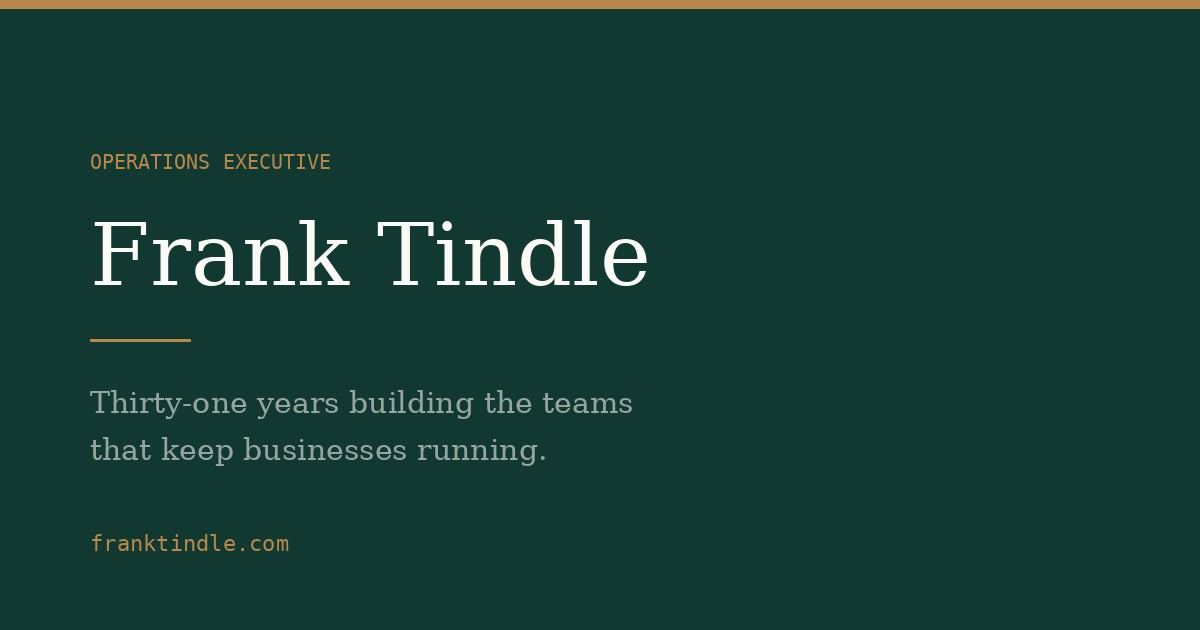
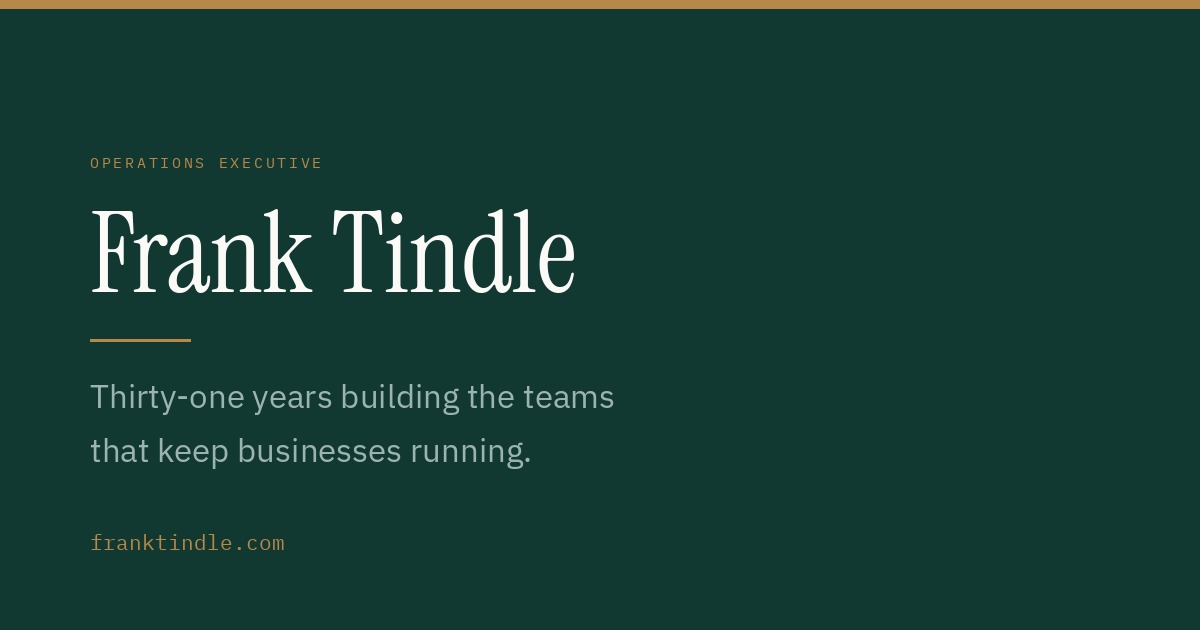
Add files via upload
version 6

diff --git a/index.html b/index.html
@@ -134,7 +134,7 @@ a{color:inherit}
   <div class="wrap">
     <p class="eyebrow">Frank Tindle · Operations executive</p>
     <h1>The best compliment operations can get is that <em>nobody noticed</em>.</h1>
-    <p class="standfirst">Thirty-one years building the teams that keep businesses running. Grow fast enough and the operation becomes the reason you can’t — I make sure it isn’t.</p>
+    <p class="standfirst">Thirty-one years building the teams that keep businesses running. Grow fast enough and your operation becomes the thing holding you back. I stop that happening.</p>
     <div class="hero-actions">
       <a class="btn btn-solid" href="https://bookings.cloud.microsoft/bookwithme/user/61244ec64a384a03bab0bd0f76595756%40franktindle.com?anonymous&amp;ismsaljsauthenabled" target="_blank" rel="noopener">Book a call</a>
       <a class="btn btn-ghost js-email" href="https://bookings.cloud.microsoft/bookwithme/user/61244ec64a384a03bab0bd0f76595756%40franktindle.com?anonymous&amp;ismsaljsauthenabled">Email me</a>
@@ -168,7 +168,7 @@ a{color:inherit}
 
       <article class="area">
         <h3>AI in the back office</h3>
-        <p>Founded a cross-functional group spanning operations, HR, IT and studio management to take the grind out of routine work. It grew from a working group into something the business now builds on. The useful wins here are unglamorous and that’s the point: the reporting, the ticket triage, the admin that quietly eats a week a month.</p>
+        <p>Founded a cross-functional group spanning operations, HR, IT and studio management to take the grind out of routine work. Started as four people comparing notes and became the way the back office thinks about this. The useful wins here are unglamorous and that’s the point: the reporting, the ticket triage, the admin that quietly eats a week a month.</p>
       </article>
 
       <article class="area">
